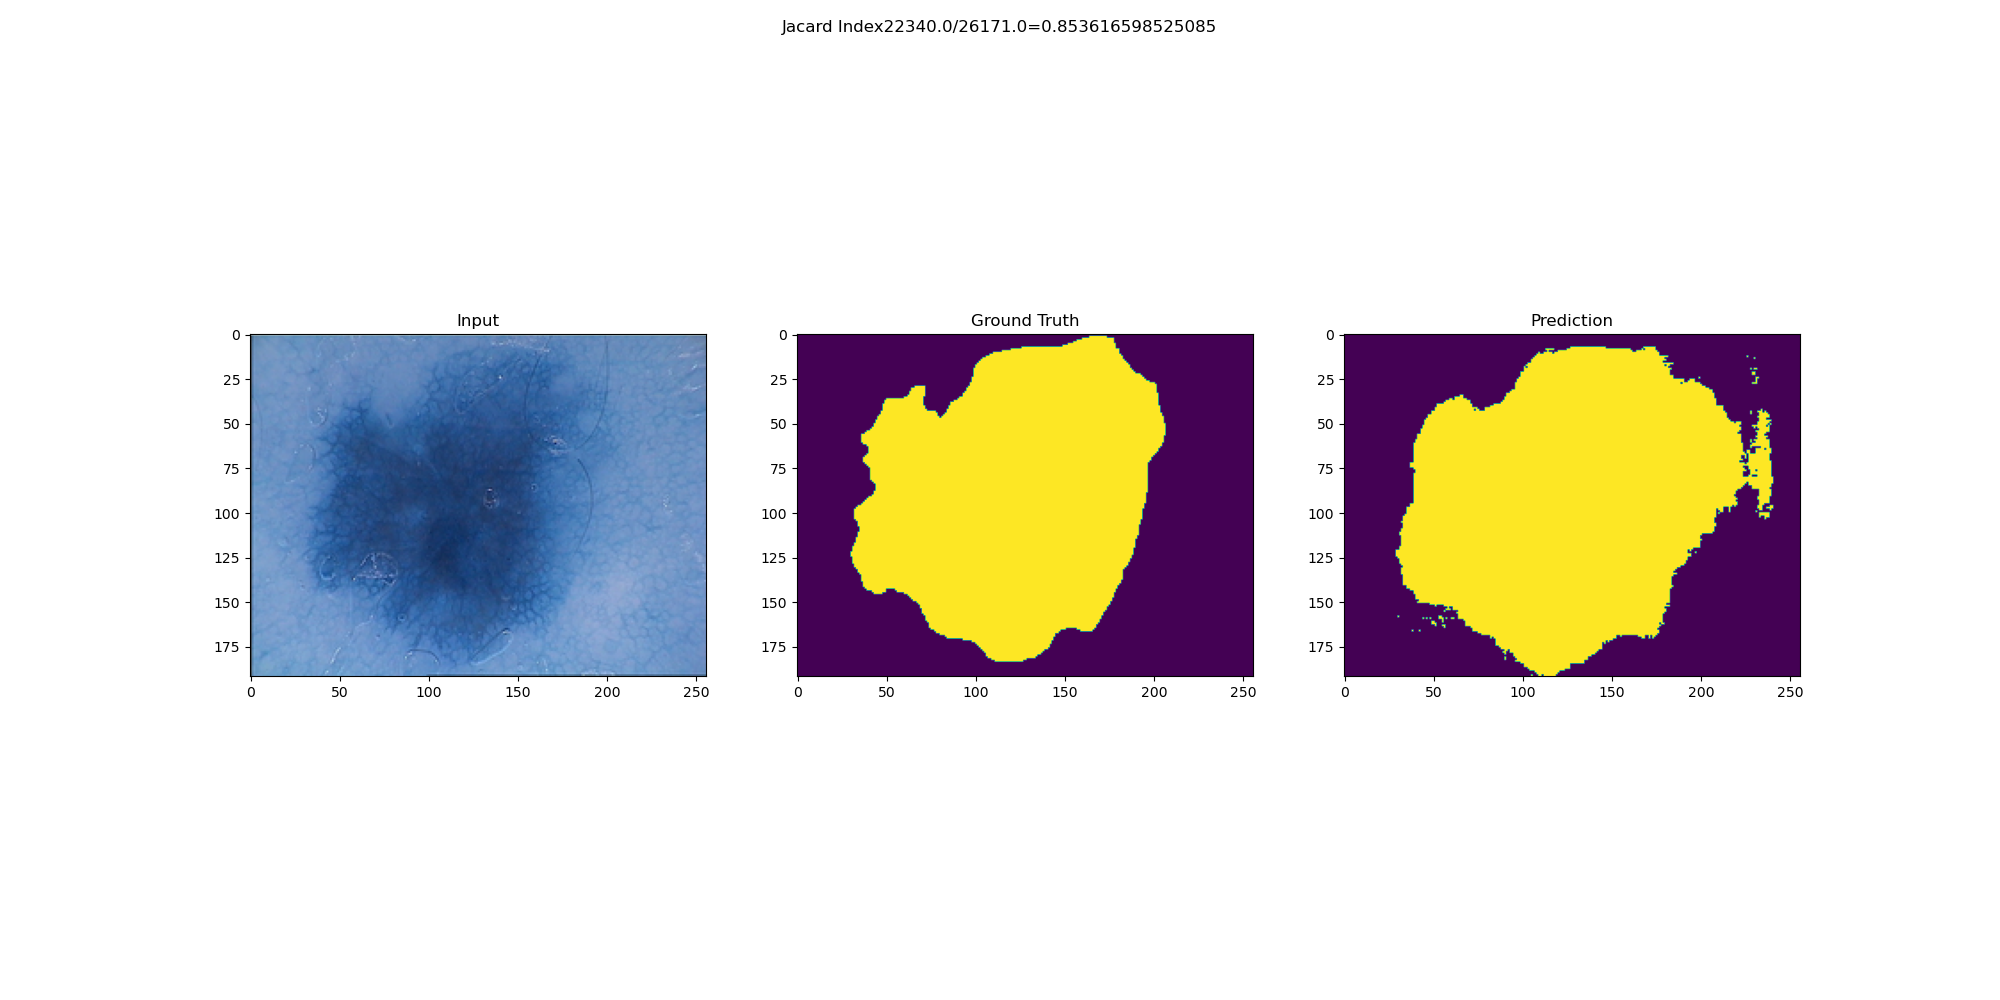
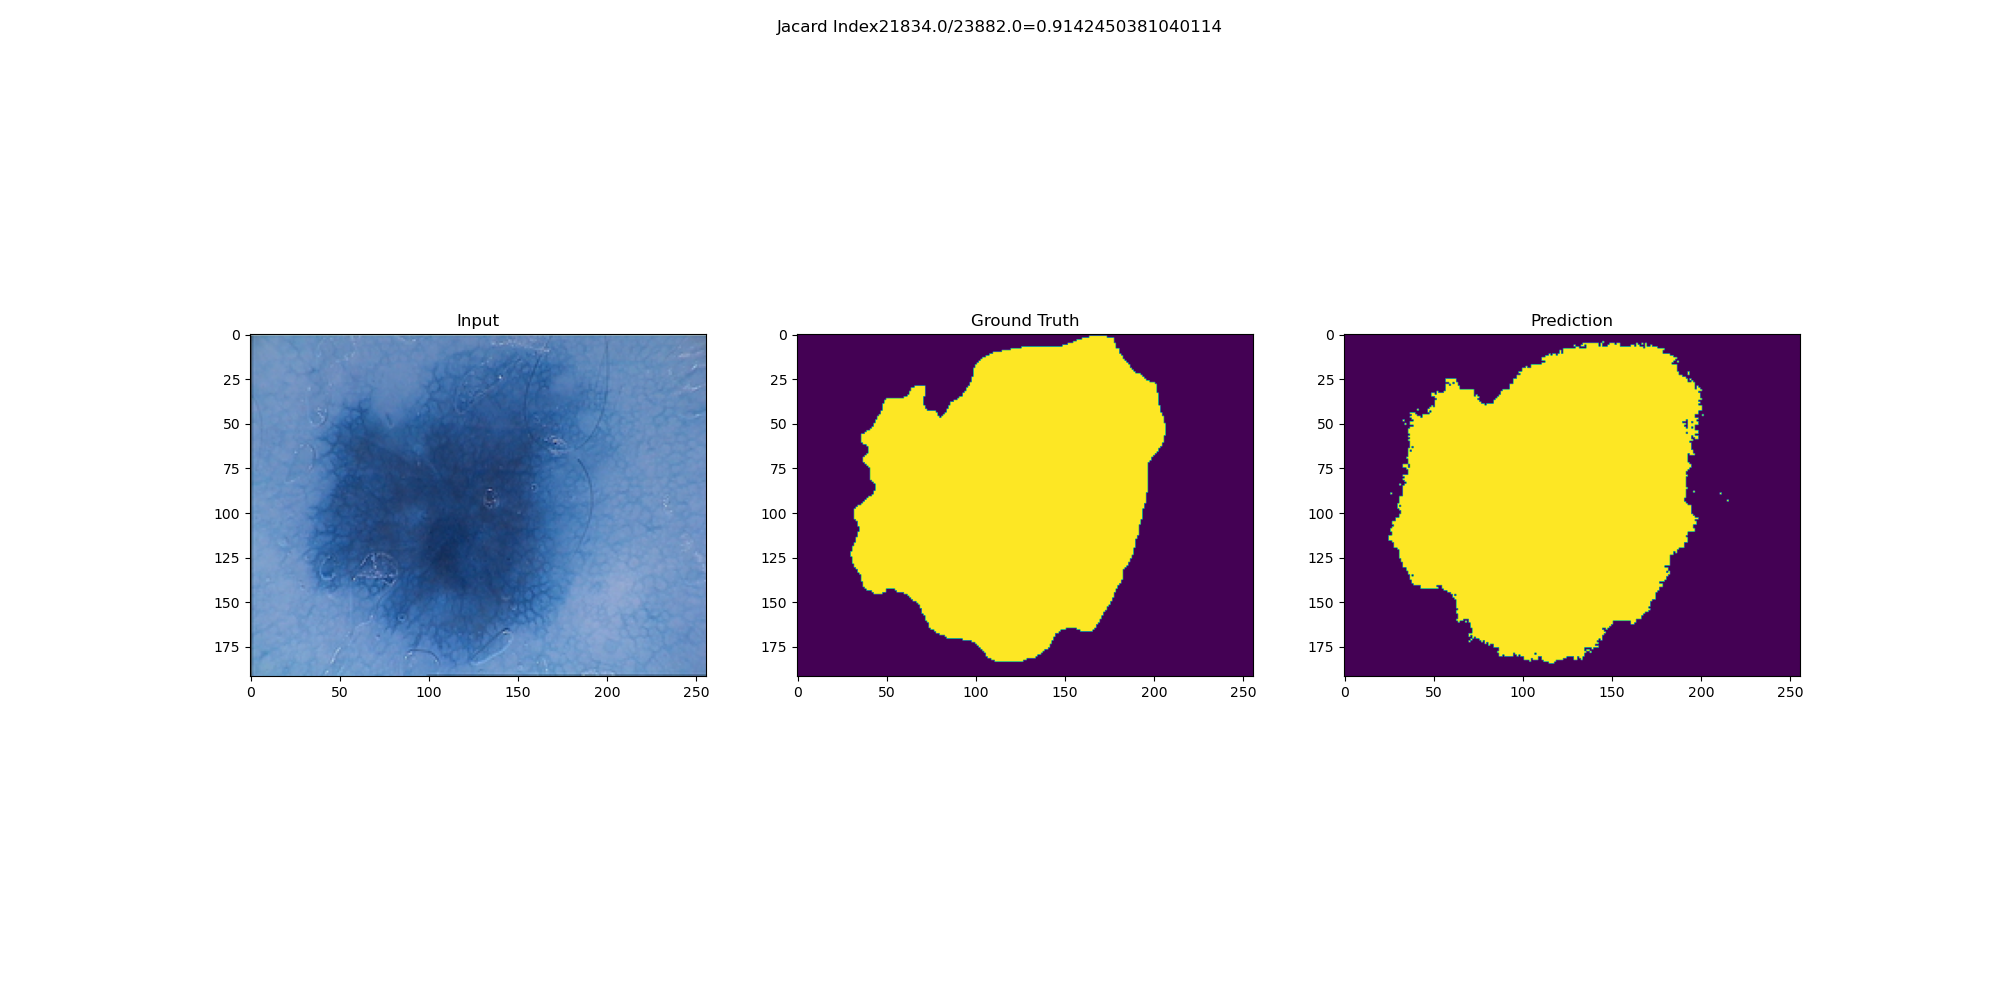
zero padding resolved

diff --git a/models/drrmsan_009.py b/models/drrmsan_009.py
@@ -20,7 +20,7 @@ Dice Coefficient : 0.9157763993524386
 from tqdm import tqdm
 from keras.regularizers import l2
 import matplotlib.pyplot as plt
-from keras.layers import Input, Conv2D, MaxPooling2D, Conv2DTranspose, concatenate, BatchNormalization, Activation, add
+from keras.layers import Input, Conv2D, MaxPooling2D, Conv2DTranspose, concatenate, BatchNormalization, Activation, add, ZeroPadding2D
 from keras.models import Model, model_from_json
 from keras.optimizers import Adam
 from keras.layers.advanced_activations import ELU, LeakyReLU
@@ -240,7 +240,8 @@ def proposed_attention_block_2d(ms_conv, res_block, filters):
     output_ms_conv_res_block_rb = multiply([resampler_down_upper_rb, resampler_down_lower_rb])
     
     attn_outputs_mult = Activation('sigmoid')(multiply([output_ms_conv_res_block, output_ms_conv_res_block_rb]))
-    attn_output_1 = UpSampling2D(size=(8, 8))(attn_outputs_mult)
+    attn_output_1 = ZeroPadding2D(padding=(1,1))(UpSampling2D(size=(2, 2))(attn_outputs_mult))
+    
     attn_output = multiply([attn_output_1, theta_x_rb])
     return attn_output_1
 
